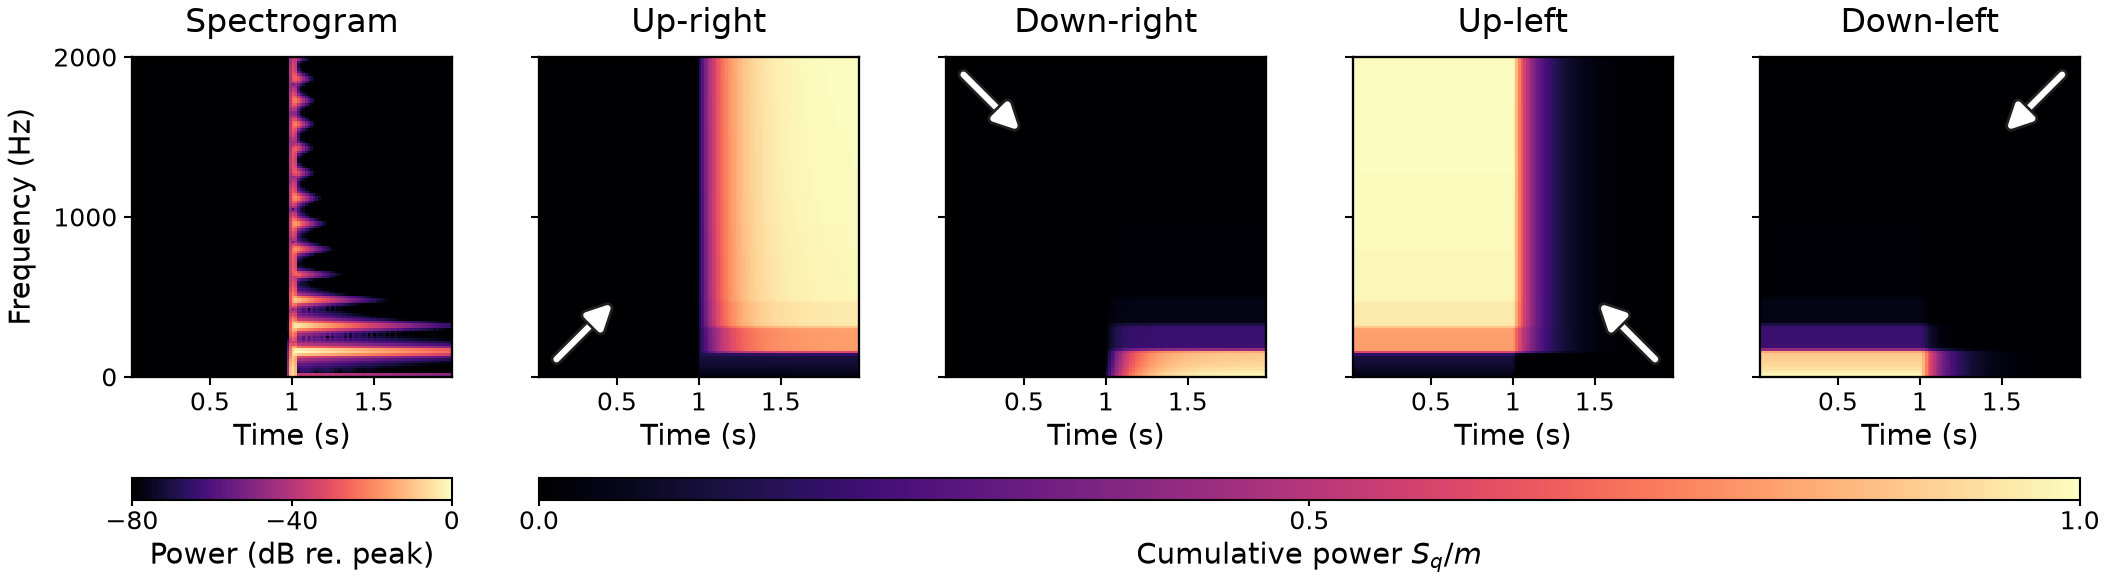
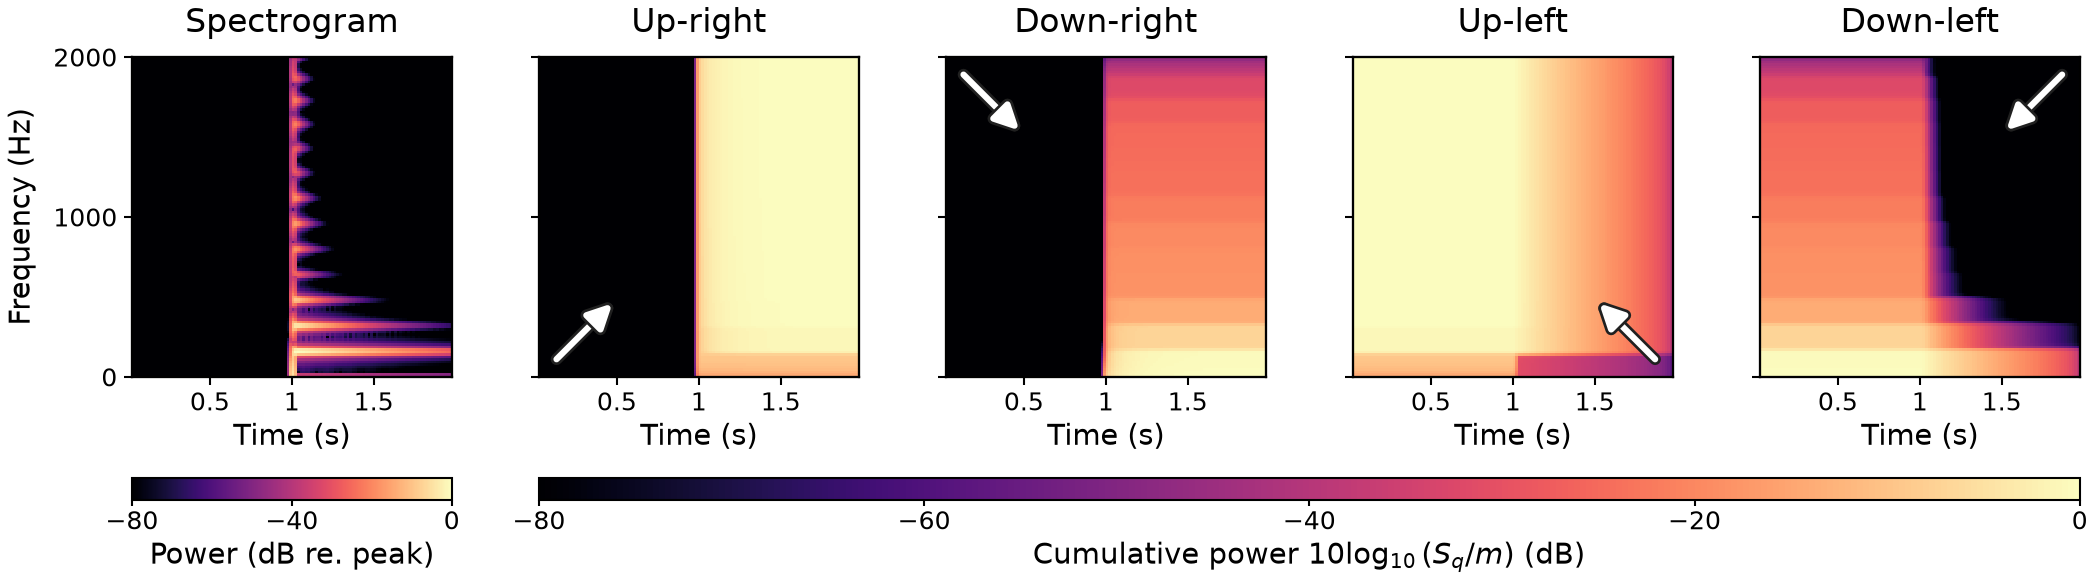
Show cumulative-power surfaces on a shared decibel scale

diff --git a/scripts/render_cumulative_surfaces.py b/scripts/render_cumulative_surfaces.py
@@ -37,6 +37,7 @@ def digest(data: bytes) -> str:
 def main() -> None:
     parser = argparse.ArgumentParser(description=__doc__)
     parser.add_argument("--device", choices=("cpu", "cuda"), default="cpu")
+    parser.add_argument("--cumulative-scale", choices=("linear", "db"), default="db")
     parser.add_argument(
         "--output-stem", type=Path,
         default=ROOT / "paper/figures/cumulative_surfaces",
@@ -114,7 +115,11 @@ def main() -> None:
     for axis, surface, (name, _, _, start, end) in zip(
         axes[1:], surfaces, DIRECTIONS, strict=True
     ):
-        cumulative_image = axis.imshow(surface, cmap="magma", vmin=0, vmax=1, **common)
+        if args.cumulative_scale == "db":
+            displayed = 10 * np.log10(np.maximum(surface, 1e-8))
+            cumulative_image = axis.imshow(displayed, cmap="magma", vmin=-80, vmax=0, **common)
+        else:
+            cumulative_image = axis.imshow(surface, cmap="magma", vmin=0, vmax=1, **common)
         axis.set_title(name)
         arrow = FancyArrowPatch(
             start, end, transform=axis.transAxes, arrowstyle="-|>",
@@ -142,7 +147,10 @@ def main() -> None:
     ])
     for artist, bar_axis, ticks, label in (
         (spectral_image, spectral_bar, [-80, -40, 0], "Power (dB re. peak)"),
-        (cumulative_image, cumulative_bar, [0, 0.5, 1], r"Cumulative power $S_q/m$"),
+        (cumulative_image, cumulative_bar,
+         [-80, -60, -40, -20, 0] if args.cumulative_scale == "db" else [0, 0.5, 1],
+         r"Cumulative power $10\log_{10}(S_q/m)$ (dB)"
+         if args.cumulative_scale == "db" else r"Cumulative power $S_q/m$"),
     ):
         colorbar = figure.colorbar(artist, cax=bar_axis, orientation="horizontal", ticks=ticks)
         colorbar.ax.tick_params(length=1.5, width=0.5, pad=1, labelsize=6)
@@ -166,7 +174,11 @@ def main() -> None:
         "stft": {"n_fft": loss.n_fft, "hop": loss.hop, "center": False,
                  "window": "periodic Hann", "shape": list(power.shape)},
         "display": {"spectrogram": "peak-relative power dB, [-80,0]",
-                    "surfaces": "raw cumulative power / shared total target power, [0,1]",
+                    "surfaces": (
+                        "10*log10(S_q/m), shared [-80,0] dB display scale"
+                        if args.cumulative_scale == "db"
+                        else "raw cumulative power / shared total target power, [0,1]"
+                    ),
                     "direction_order": [item[0] for item in DIRECTIONS]},
         "target_audio_sha256": digest(target.cpu().numpy().tobytes()),
         "power_sha256": digest(power_array.tobytes()),

diff --git a/paper/main.tex b/paper/main.tex
@@ -163,9 +163,10 @@ corner to that bin inclusive, as shown in Fig.~\ref{fig:cumulative-surfaces}.
 \includegraphics[width=\textwidth]{\PaperRoot/figures/cumulative_surfaces.pdf}
 \caption{STFT power of a 160-Hz pluck at 1.0~s, followed by cumulative-power
 surfaces in the up-right, down-right, up-left, and down-left directions.
-The spectrogram is shown in dB relative to its peak; all cumulative surfaces
-share the total-target-power normalisation $S_q/m$. Diagonal arrows indicate
-each starting corner and accumulation direction.}
+The spectrogram is shown in dB relative to its peak; cumulative surfaces use
+a shared dB colour scale for $S_q/m$, relative to total target power. Values
+below $-80$~dB are clipped for display only. Diagonal arrows indicate each
+starting corner and accumulation direction.}
 \label{fig:cumulative-surfaces}
 \end{figure*}
 
